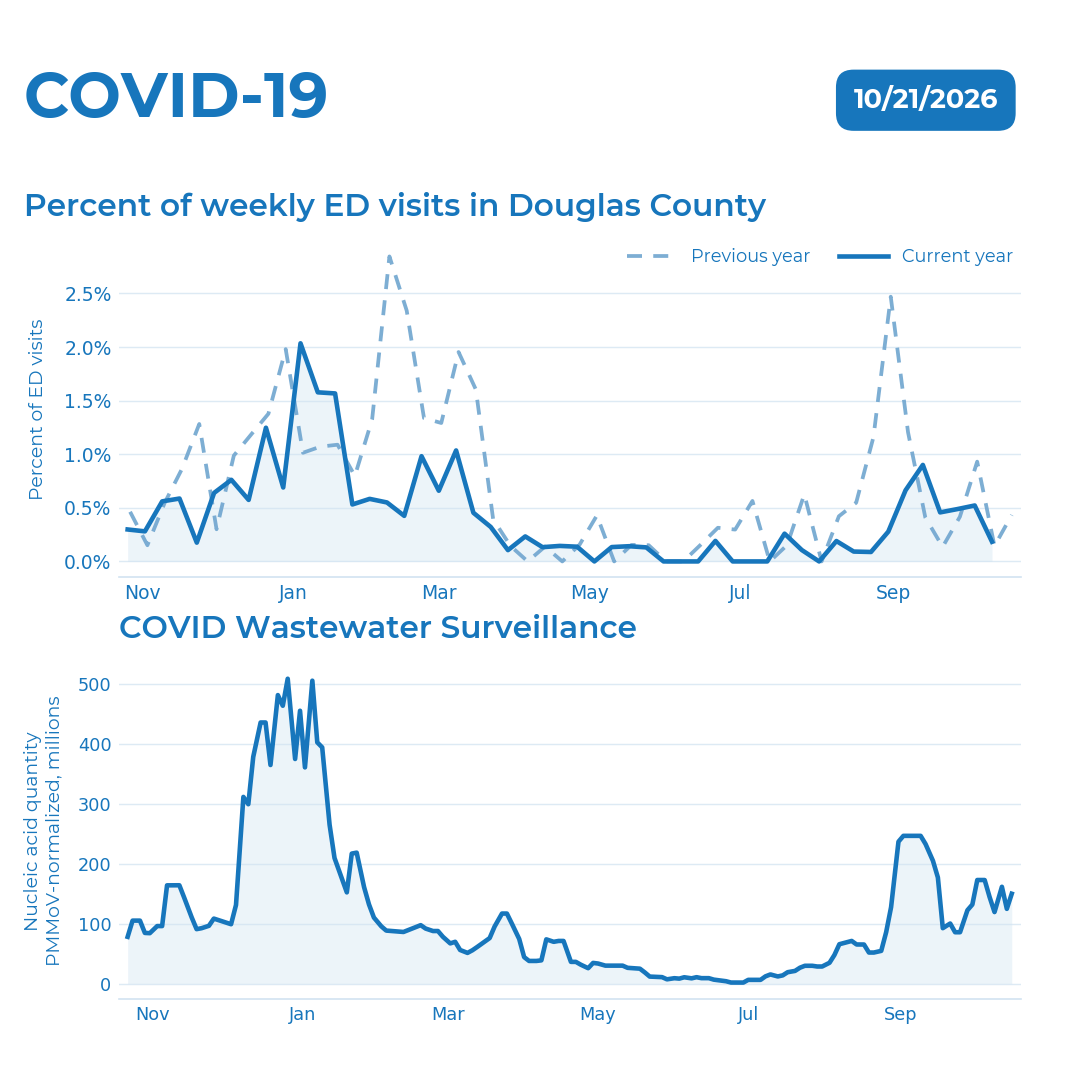
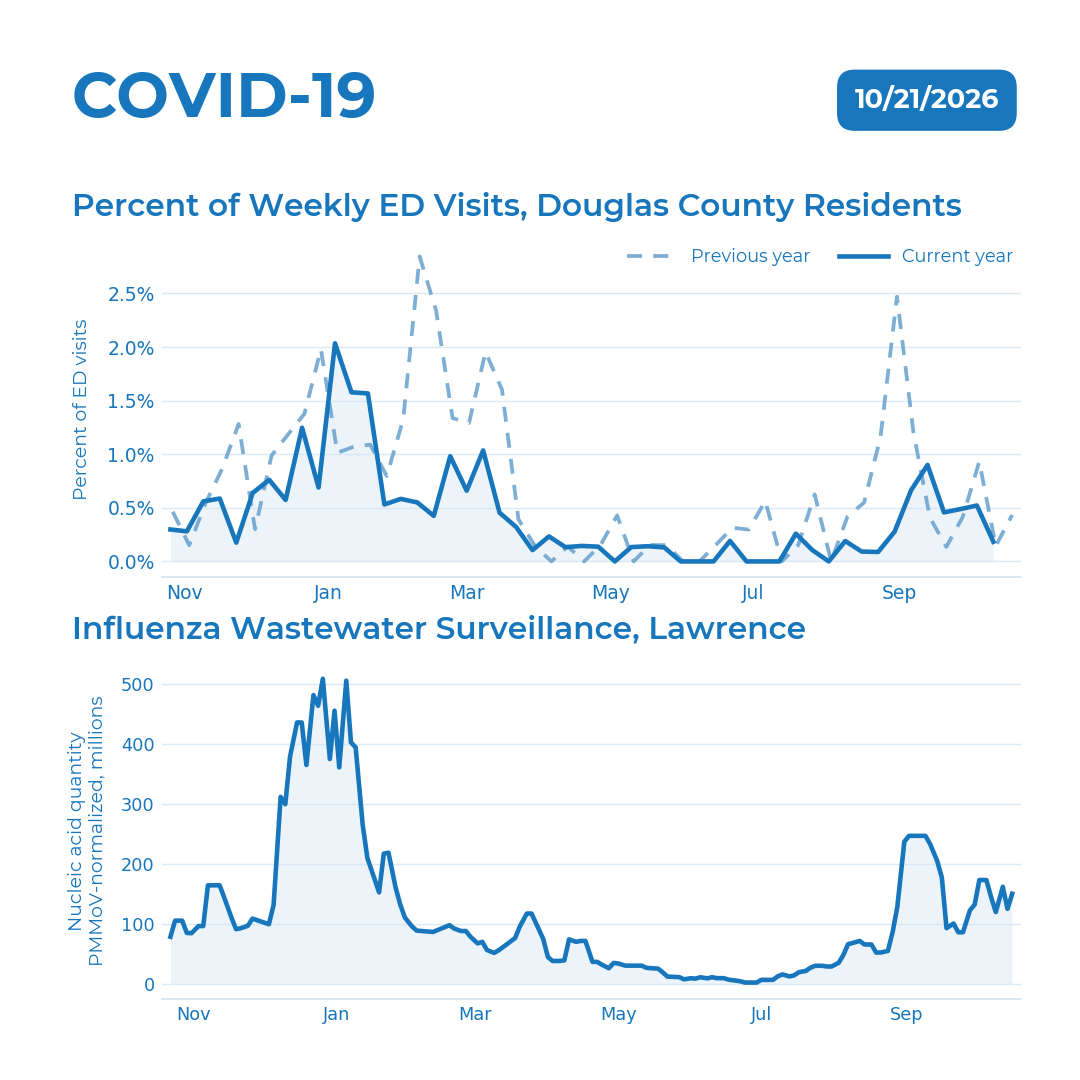
Final touches 4

diff --git a/respiratory/index.html b/respiratory/index.html
@@ -139,7 +139,7 @@
     <div class="container">
       <h2 class="section-title">About This Data</h2>
       <ul class="about-list">
-        <li><strong>ED visit rates</strong> are aggregated weekly from emergency departments and urgent care facilities participating in the national syndromic surveillance program. </li>
+        <li><strong>ED visit rates</strong> are aggregated weekly from emergency departments and urgent care facilities participating in the national syndromic surveillance program. The rates represent Douglas County residents regardless of which facility they visited.</li>
         <li><strong>Wastewater surveillance</strong> reflects viral genetic material measured in sewage samples, an early indicator of community transmission that is independent of testing or healthcare-seeking behavior. Samples are collected by the City of Lawrence and submitted for analysis to <a href="https://data.wastewaterscan.org">WastewaterSCAN</a>, a nationwide wastewater monitoring program based at Standord University in partnership with Emory University.</li>
         <li>During the flu season (October through May) LDCPH refreshes this data on a weekly basis; see the "Data updated" badge above for the most recent refresh date.</li>
         <li>This dashboard is for general public health situational awareness and should not be used for individual medical decision-making.</li>
